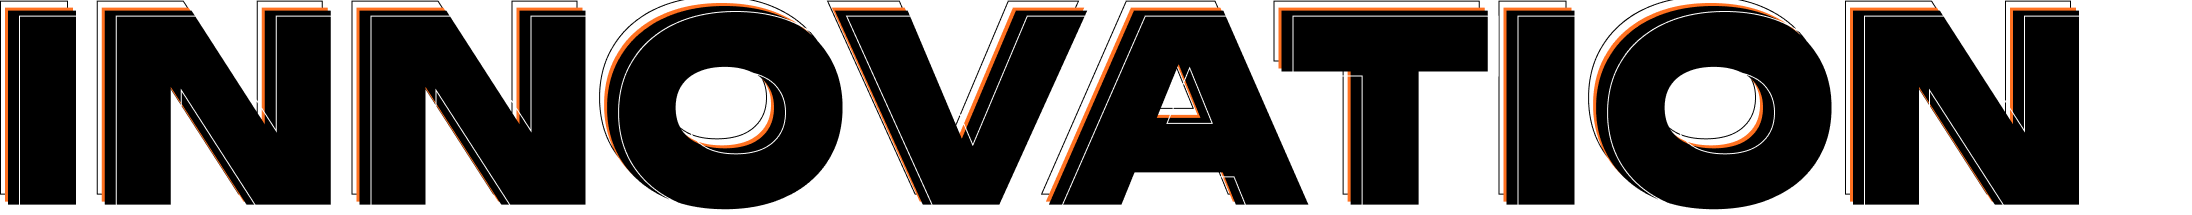
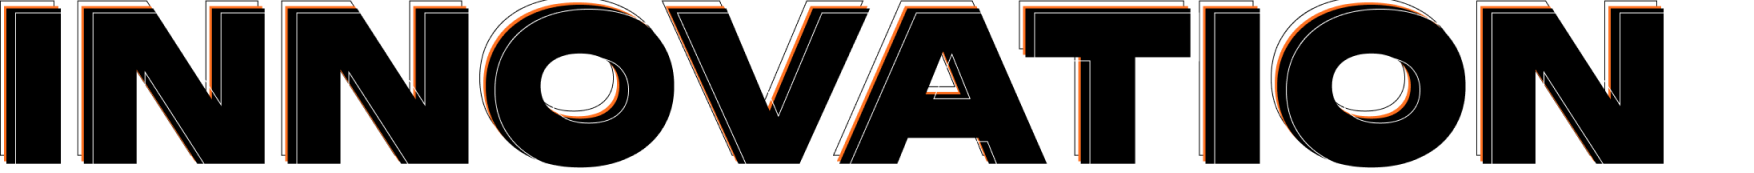
header reducido en 20%

diff --git a/css/styles.css b/css/styles.css
@@ -998,12 +998,11 @@ header .contact-btn button:not(:hover) span {
 .animated_text1 {
     z-index: 5;
     position: relative;
-    top: 176px;
+    top: 132px;
     width: 2000%;
     height: 210px;
     background-image: url("../img/head_text1.png");
     background-repeat: repeat-x;
-    background-size: auto;
     background-position: 0 0;
     animation: scroll-right-to-left 720s linear infinite;
 }
@@ -1011,12 +1010,11 @@ header .contact-btn button:not(:hover) span {
 .animated_text2 {
     z-index: 5;
     position: relative;
-    top: 160px;
+    top: 72px;
     width: 2000%;
     height: 260px;
     background-image: url("../img/head_text2.png");
     background-repeat: repeat-x;
-    background-size: auto;
     background-position: 0 0;
     animation: scroll-left-to-right 720s linear infinite;
 }
